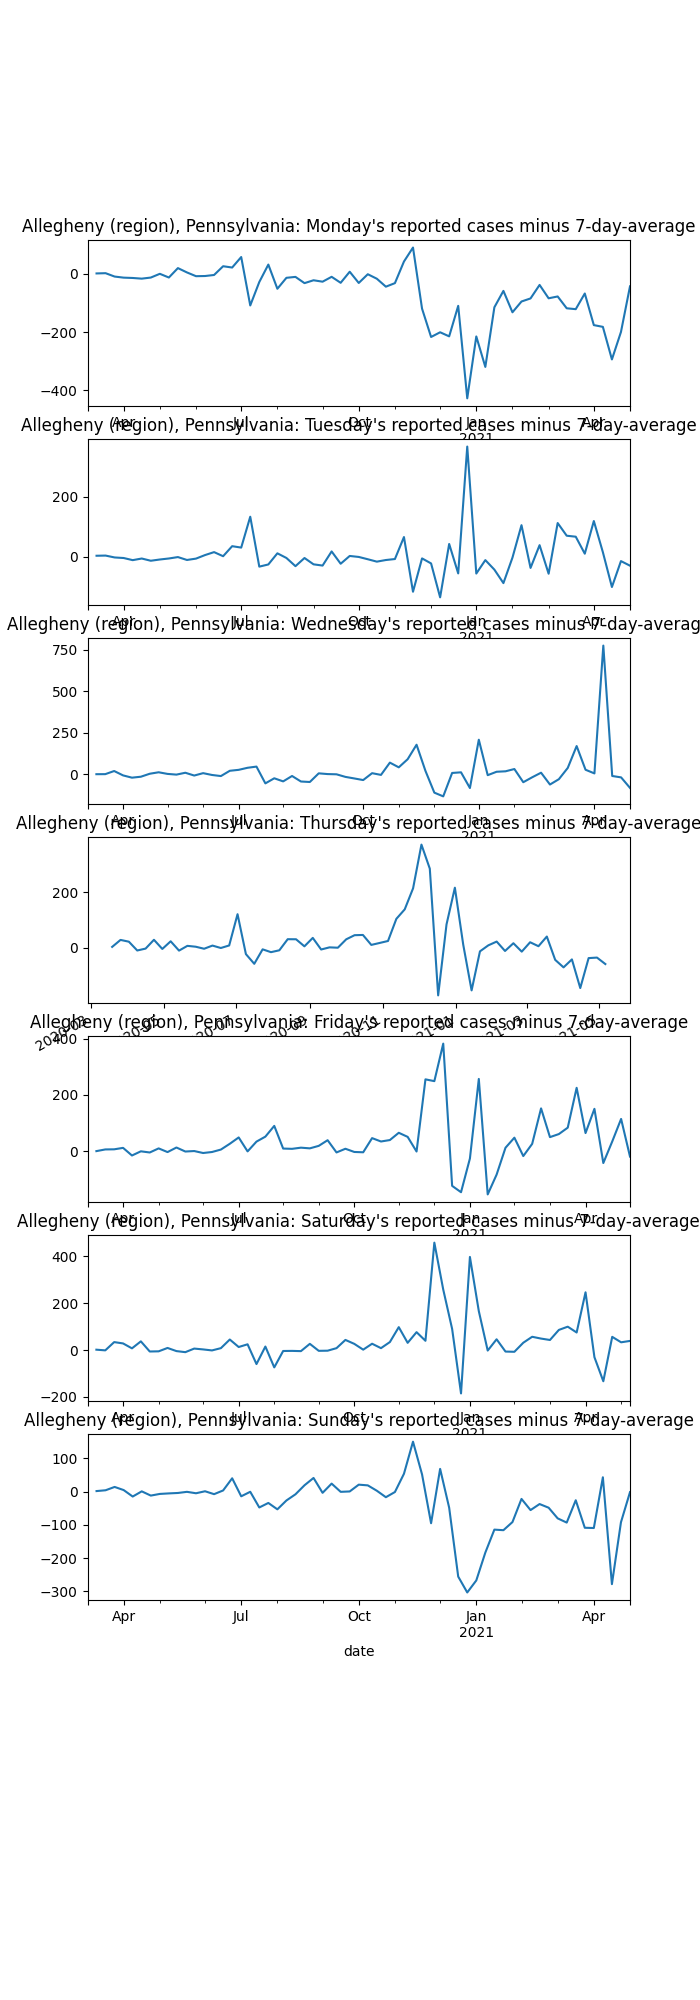
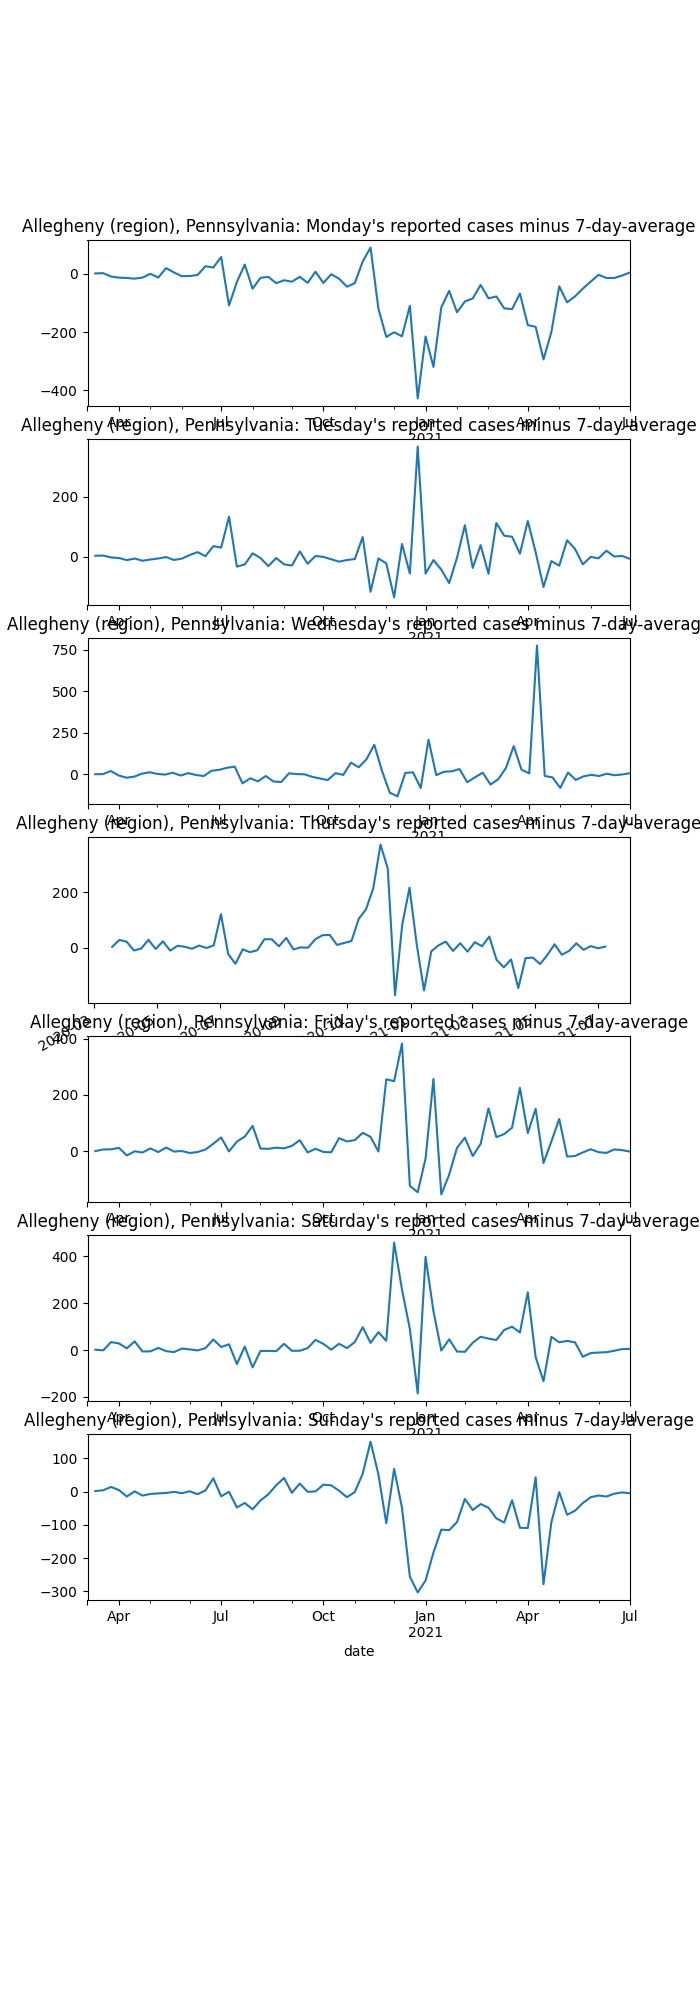
May 17 increase

diff --git a/index.html b/index.html
@@ -2,24 +2,21 @@
 <html lang="en">
     <head>
         <meta charset="utf-8">
-        <title>COVID-19 in Allegheny County, Pennsylvania (updated daily)</title>
+        <title>COVID-19 in Allegheny County, Pennsylvania (updated Monday, Wednesday, Friday starting June 1, 2021)</title>
     </head>
 
     <body>
         <header>
             <h1><a href="https://www.alleghenycounty.us/Health-Department/Resources/COVID-19/COVID-19.aspx">COVID-19
-                in Allegheny County, Pennsylvania</a> (updated daily)</h1>
+                in Allegheny County, Pennsylvania</a> (updated Monday, Wednesday, Friday starting June 1, 2021)</h1>
         </header>
 
         <aside>
-            Last updated: Sun May 16, 10:34 AM
+            Last updated: Thu Jul 15,  4:59 PM
         </aside>
 
         <section>
             <h2 style="color: #ff6700">Important announcements</h2>
-            <p> May 13, 2021: <a href="https://www.media.pa.gov/Pages/Health-Details.aspx?newsid=1450">PA mask order</a> in accordance with <a href="https://www.cdc.gov/coronavirus/2019-ncov/vaccines/fully-vaccinated.html">CDC announcement</a>: <strong>fully vaccinated</strong> individuals can now resume activities without wearing a mask or physically distancing, except where required by law, rule, and regulations, including local business and workplace guidance. Under the guidance, individuals are still required to wear a mask on planes, buses, trains, and other forms of public transportation traveling into, within, or out of the United States, and in U.S. transportation hubs, such as airports and stations. In addition, all individuals will still need to follow guidance at workplaces and local businesses.
-            <p> May 4, 2021: effective Memorial Day (May 31, 2021), <a href="https://www.media.pa.gov/Pages/Health-Details.aspx?newsid=1437">all COVID-19 mitigations will be lifted, *except masking requirements*.</a> Mask requirements will be lifted when 70% of Pennylvanians age 18 and older are fully vaccinated.
-            </p>
         </section>
 
         <section>
@@ -47,12 +44,17 @@
             </p>
             <nav>
                 <ul>
-                    <li><a href="#dailyaveraged">Daily cases; daily hospitalizations and deaths</a>
+                    <li><a href="#recentdailyaveraged">Since June 1, 2021: Daily cases; daily hospitalizations and deaths</a>
                     </li>
-                    <li><a href="#total">Total cases; total hospitalizations and deaths</a>
+                    <li><a href="#dailyaveraged">Since March 13, 2020: Daily cases; daily hospitalizations and deaths</a>
+                    </li>
+                    <li><a href="#total">Since March 13, 2020: Total cases; total hospitalizations and deaths</a>
                     </li>
                 </ul>
             </nav>
+            <figure id="recentdailyaveraged">
+                <img src="recentdailyaveraged.png" alt="Allegheny County: new daily (7-day-average) since June 1, 2021"/>
+            </figure>
             <figure id="dailyaveraged">
                 <img src="dailyaveraged.png" alt="Allegheny County: new daily (7-day-average)"/>
             </figure>
